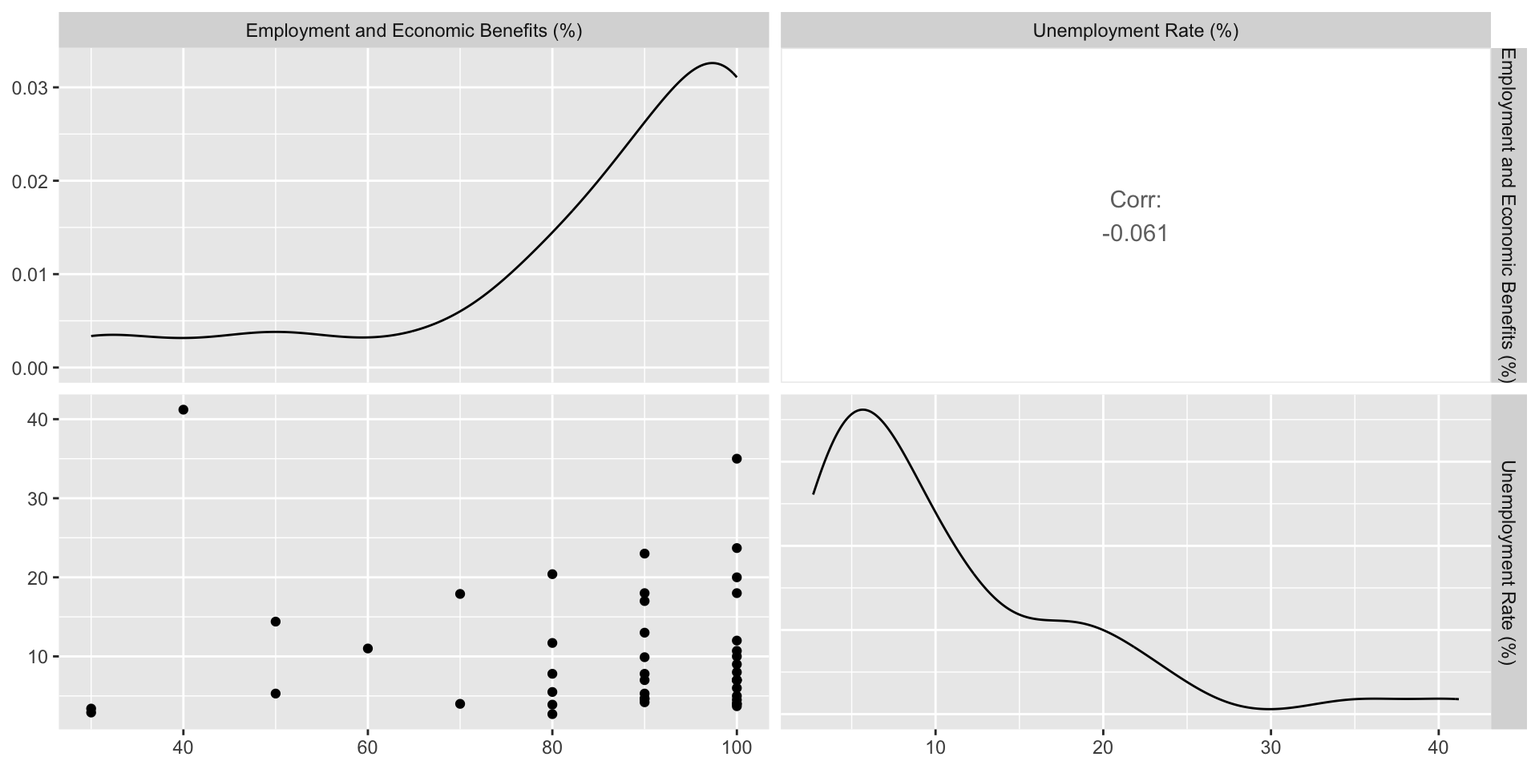
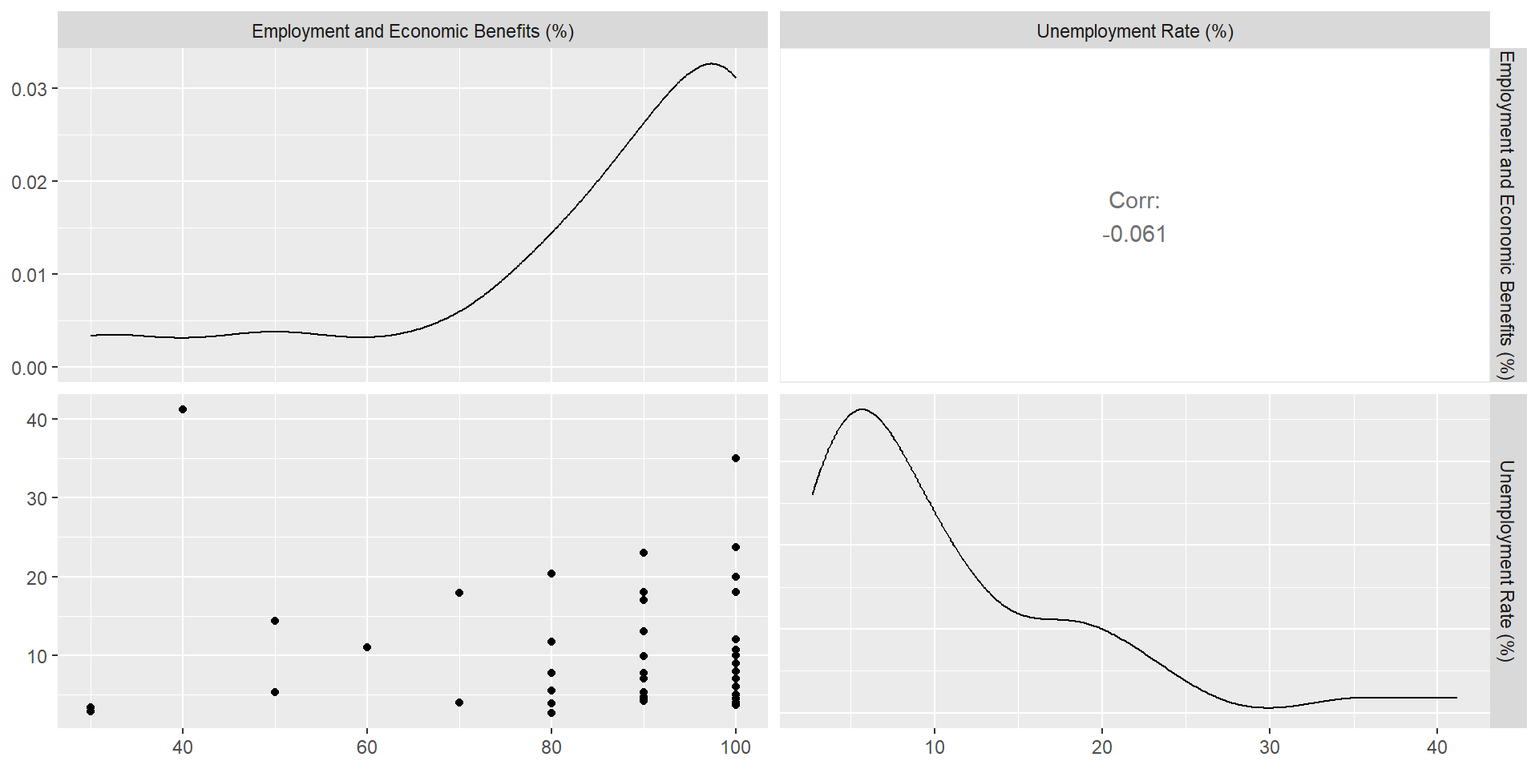
Added pairplot

diff --git a/csc3007-black2/csc3007-black2.html b/csc3007-black2/csc3007-black2.html
@@ -337,169 +337,6 @@ CHIA YI XUAN, TSUI SAU CHI, JEANIE OH JUN NING, VARADHARAJAN JAYAPRIYA, GU JINMI
 </div>
 
 </section>
-<section class="slide level2">
-
-<div class="cell">
-<div class="cell-output cell-output-stdout">
-<pre><code># A tibble: 99 × 39
-   ObjectId goal_code goal_labelEN goal_descEN         target_code target_descEN
-      &lt;dbl&gt;     &lt;dbl&gt; &lt;chr&gt;        &lt;chr&gt;                     &lt;dbl&gt; &lt;chr&gt;        
- 1        1         5 Goal 5       Achieve gender equ…         5.1 End all form…
- 2        2         5 Goal 5       Achieve gender equ…         5.1 End all form…
- 3        3         5 Goal 5       Achieve gender equ…         5.1 End all form…
- 4        4         5 Goal 5       Achieve gender equ…         5.1 End all form…
- 5        5         5 Goal 5       Achieve gender equ…         5.1 End all form…
- 6        6         5 Goal 5       Achieve gender equ…         5.1 End all form…
- 7        7         5 Goal 5       Achieve gender equ…         5.1 End all form…
- 8        8         5 Goal 5       Achieve gender equ…         5.1 End all form…
- 9        9         5 Goal 5       Achieve gender equ…         5.1 End all form…
-10       10         5 Goal 5       Achieve gender equ…         5.1 End all form…
-# ℹ 89 more rows
-# ℹ 33 more variables: indicator_code &lt;chr&gt;, indicator_reference &lt;chr&gt;,
-#   indicator_descEN &lt;chr&gt;, series_release &lt;chr&gt;, series_tags &lt;chr&gt;,
-#   series &lt;chr&gt;, seriesDescription &lt;chr&gt;, geoAreaCode &lt;dbl&gt;,
-#   geoAreaName &lt;chr&gt;, level_ &lt;dbl&gt;, parentCode &lt;dbl&gt;, parentName &lt;chr&gt;,
-#   type &lt;chr&gt;, X &lt;dbl&gt;, Y &lt;dbl&gt;, ISO3 &lt;chr&gt;, UN_Member &lt;dbl&gt;,
-#   Country_Profile &lt;dbl&gt;, UnitMultiplier &lt;lgl&gt;, Units_code &lt;chr&gt;, …</code></pre>
-</div>
-<div class="cell-output cell-output-stdout">
-<pre><code># A tibble: 190 × 59
-   ObjectId goal_code goal_labelEN goal_descEN         target_code target_descEN
-      &lt;dbl&gt;     &lt;dbl&gt; &lt;chr&gt;        &lt;chr&gt;                     &lt;dbl&gt; &lt;chr&gt;        
- 1        1         5 Goal 5       Achieve gender equ…         5.5 Ensure women…
- 2        2         5 Goal 5       Achieve gender equ…         5.5 Ensure women…
- 3        3         5 Goal 5       Achieve gender equ…         5.5 Ensure women…
- 4        4         5 Goal 5       Achieve gender equ…         5.5 Ensure women…
- 5        5         5 Goal 5       Achieve gender equ…         5.5 Ensure women…
- 6        6         5 Goal 5       Achieve gender equ…         5.5 Ensure women…
- 7        7         5 Goal 5       Achieve gender equ…         5.5 Ensure women…
- 8        8         5 Goal 5       Achieve gender equ…         5.5 Ensure women…
- 9        9         5 Goal 5       Achieve gender equ…         5.5 Ensure women…
-10       10         5 Goal 5       Achieve gender equ…         5.5 Ensure women…
-# ℹ 180 more rows
-# ℹ 53 more variables: indicator_code &lt;chr&gt;, indicator_reference &lt;chr&gt;,
-#   indicator_descEN &lt;chr&gt;, series_release &lt;chr&gt;, series_tags &lt;chr&gt;,
-#   series &lt;chr&gt;, seriesDescription &lt;chr&gt;, geoAreaCode &lt;dbl&gt;,
-#   geoAreaName &lt;chr&gt;, level_ &lt;dbl&gt;, parentCode &lt;dbl&gt;, parentName &lt;chr&gt;,
-#   type &lt;chr&gt;, X &lt;dbl&gt;, Y &lt;dbl&gt;, ISO3 &lt;chr&gt;, UN_Member &lt;dbl&gt;,
-#   Country_Profile &lt;dbl&gt;, sex_code &lt;lgl&gt;, sex_desc &lt;chr&gt;, …</code></pre>
-</div>
-<div class="cell-output cell-output-stdout">
-<pre><code># A tibble: 3,409 × 60
-   ObjectId goal_code goal_labelEN goal_descEN         target_code target_descEN
-      &lt;dbl&gt;     &lt;dbl&gt; &lt;chr&gt;        &lt;chr&gt;                     &lt;dbl&gt; &lt;chr&gt;        
- 1        1         8 Goal 8       Promote sustained,…         8.5 By 2030, ach…
- 2        2         8 Goal 8       Promote sustained,…         8.5 By 2030, ach…
- 3        3         8 Goal 8       Promote sustained,…         8.5 By 2030, ach…
- 4        4         8 Goal 8       Promote sustained,…         8.5 By 2030, ach…
- 5        5         8 Goal 8       Promote sustained,…         8.5 By 2030, ach…
- 6        6         8 Goal 8       Promote sustained,…         8.5 By 2030, ach…
- 7        7         8 Goal 8       Promote sustained,…         8.5 By 2030, ach…
- 8        8         8 Goal 8       Promote sustained,…         8.5 By 2030, ach…
- 9        9         8 Goal 8       Promote sustained,…         8.5 By 2030, ach…
-10       10         8 Goal 8       Promote sustained,…         8.5 By 2030, ach…
-# ℹ 3,399 more rows
-# ℹ 54 more variables: indicator_code &lt;chr&gt;, indicator_reference &lt;chr&gt;,
-#   indicator_descEN &lt;chr&gt;, series_release &lt;chr&gt;, series_tags &lt;chr&gt;,
-#   series &lt;chr&gt;, seriesDescription &lt;chr&gt;, geoAreaCode &lt;dbl&gt;,
-#   geoAreaName &lt;chr&gt;, level_ &lt;dbl&gt;, parentCode &lt;dbl&gt;, parentName &lt;chr&gt;,
-#   type &lt;chr&gt;, X &lt;dbl&gt;, Y &lt;dbl&gt;, ISO3 &lt;chr&gt;, UN_Member &lt;dbl&gt;,
-#   Country_Profile &lt;dbl&gt;, sex_code &lt;chr&gt;, sex_desc &lt;chr&gt;, …</code></pre>
-</div>
-<div class="cell-output cell-output-stdout">
-<pre><code># A tibble: 631 × 55
-   ObjectId goal_code goal_labelEN goal_descEN         target_code target_descEN
-      &lt;dbl&gt;     &lt;dbl&gt; &lt;chr&gt;        &lt;chr&gt;                     &lt;dbl&gt; &lt;chr&gt;        
- 1        1         8 Goal 8       Promote sustained,…         8.5 By 2030, ach…
- 2        2         8 Goal 8       Promote sustained,…         8.5 By 2030, ach…
- 3        3         8 Goal 8       Promote sustained,…         8.5 By 2030, ach…
- 4        4         8 Goal 8       Promote sustained,…         8.5 By 2030, ach…
- 5        5         8 Goal 8       Promote sustained,…         8.5 By 2030, ach…
- 6        6         8 Goal 8       Promote sustained,…         8.5 By 2030, ach…
- 7        7         8 Goal 8       Promote sustained,…         8.5 By 2030, ach…
- 8        8         8 Goal 8       Promote sustained,…         8.5 By 2030, ach…
- 9        9         8 Goal 8       Promote sustained,…         8.5 By 2030, ach…
-10       10         8 Goal 8       Promote sustained,…         8.5 By 2030, ach…
-# ℹ 621 more rows
-# ℹ 49 more variables: indicator_code &lt;chr&gt;, indicator_reference &lt;chr&gt;,
-#   indicator_descEN &lt;chr&gt;, series_release &lt;chr&gt;, series_tags &lt;chr&gt;,
-#   series &lt;chr&gt;, seriesDescription &lt;chr&gt;, geoAreaCode &lt;dbl&gt;,
-#   geoAreaName &lt;chr&gt;, level_ &lt;dbl&gt;, parentCode &lt;dbl&gt;, parentName &lt;chr&gt;,
-#   type &lt;chr&gt;, X &lt;dbl&gt;, Y &lt;dbl&gt;, ISO3 &lt;chr&gt;, UN_Member &lt;dbl&gt;,
-#   Country_Profile &lt;dbl&gt;, sex_code &lt;chr&gt;, sex_desc &lt;chr&gt;, …</code></pre>
-</div>
-<div class="cell-output cell-output-stdout">
-<pre><code># A tibble: 99 × 8
-   indicator_reference geoAreaName            parentName type      X     Y ISO3 
-   &lt;chr&gt;               &lt;chr&gt;                  &lt;chr&gt;      &lt;chr&gt; &lt;dbl&gt; &lt;dbl&gt; &lt;chr&gt;
- 1 5.1.1               Albania                Southern … Coun…  20.1  41.1 ALB  
- 2 5.1.1               Argentina              South Ame… Coun… -65.1 -35.2 ARG  
- 3 5.1.1               Armenia                Western A… Coun…  44.9  40.3 ARM  
- 4 5.1.1               Australia              Australia… Coun… 134.  -25.6 AUS  
- 5 5.1.1               Austria                Western E… Coun…  14.1  47.6 AUT  
- 6 5.1.1               Bangladesh             Southern … Coun…  89.2  22.9 BGD  
- 7 5.1.1               Bangladesh             Southern … Coun…  89.2  22.9 BGD  
- 8 5.1.1               Barbados               Caribbean  Coun… -59.5  13.1 BRB  
- 9 5.1.1               Belarus                Eastern E… Coun…  28.0  53.5 BLR  
-10 5.1.1               Bolivia (Plurinationa… South Ame… Coun… -64.7 -16.7 BOL  
-# ℹ 89 more rows
-# ℹ 1 more variable: latest_value &lt;dbl&gt;</code></pre>
-</div>
-<div class="cell-output cell-output-stdout">
-<pre><code># A tibble: 190 × 8
-   indicator_reference geoAreaName parentName            type      X     Y ISO3 
-   &lt;chr&gt;               &lt;chr&gt;       &lt;chr&gt;                 &lt;chr&gt; &lt;dbl&gt; &lt;dbl&gt; &lt;chr&gt;
- 1 5.5.2               Afghanistan Southern Asia (exclu… Coun… 66.0   33.8 AFG  
- 2 5.5.2               Afghanistan Southern Asia (exclu… Coun… 66.0   33.8 AFG  
- 3 5.5.2               Montenegro  Southern Europe       Coun… 19.3   42.8 MNE  
- 4 5.5.2               Albania     Southern Europe       Coun… 20.1   41.1 ALB  
- 5 5.5.2               Algeria     Northern Africa       Coun…  2.68  28.2 DZA  
- 6 5.5.2               Morocco     Northern Africa       Coun… -6.28  31.8 MAR  
- 7 5.5.2               Mozambique  Eastern Africa        Coun… 38.2  -14.3 MOZ  
- 8 5.5.2               Angola      Middle Africa         Coun… 17.6  -12.3 AGO  
- 9 5.5.2               Myanmar     South-Eastern Asia    Coun… 96.5   21.2 MMR  
-10 5.5.2               Namibia     Southern Africa       Coun… 17.2  -22.1 NAM  
-# ℹ 180 more rows
-# ℹ 1 more variable: latest_value &lt;dbl&gt;</code></pre>
-</div>
-<div class="cell-output cell-output-stdout">
-<pre><code># A tibble: 3,409 × 11
-   indicator_reference geoAreaName parentName   type      X     Y ISO3  sex_code
-   &lt;chr&gt;               &lt;chr&gt;       &lt;chr&gt;        &lt;chr&gt; &lt;dbl&gt; &lt;dbl&gt; &lt;chr&gt; &lt;chr&gt;   
- 1 8.5.1               Austria     Western Eur… Coun…  14.1  47.6 AUT   _T      
- 2 8.5.1               Austria     Western Eur… Coun…  14.1  47.6 AUT   _T      
- 3 8.5.1               Austria     Western Eur… Coun…  14.1  47.6 AUT   _T      
- 4 8.5.1               Cambodia    South-Easte… Coun… 105.   12.7 KHM   M       
- 5 8.5.1               Botswana    Southern Af… Coun…  23.8 -22.2 BWA   F       
- 6 8.5.1               Austria     Western Eur… Coun…  14.1  47.6 AUT   _T      
- 7 8.5.1               Austria     Western Eur… Coun…  14.1  47.6 AUT   _T      
- 8 8.5.1               Austria     Western Eur… Coun…  14.1  47.6 AUT   F       
- 9 8.5.1               Austria     Western Eur… Coun…  14.1  47.6 AUT   F       
-10 8.5.1               Austria     Western Eur… Coun…  14.1  47.6 AUT   F       
-# ℹ 3,399 more rows
-# ℹ 3 more variables: sex_desc &lt;chr&gt;, type_of_occupation_desc &lt;chr&gt;,
-#   latest_value &lt;dbl&gt;</code></pre>
-</div>
-<div class="cell-output cell-output-stdout">
-<pre><code># A tibble: 631 × 12
-   indicator_reference geoAreaName parentName   type      X     Y ISO3  sex_code
-   &lt;chr&gt;               &lt;chr&gt;       &lt;chr&gt;        &lt;chr&gt; &lt;dbl&gt; &lt;dbl&gt; &lt;chr&gt; &lt;chr&gt;   
- 1 8.5.2               Sri Lanka   Southern As… Coun…  80.7  7.61 LKA   M       
- 2 8.5.2               Lithuania   Northern Eu… Coun…  23.9 55.3  LTU   _T      
- 3 8.5.2               Romania     Eastern Eur… Coun…  25.0 45.8  ROU   _T      
- 4 8.5.2               Sri Lanka   Southern As… Coun…  80.7  7.61 LKA   M       
- 5 8.5.2               Romania     Eastern Eur… Coun…  25.0 45.8  ROU   F       
- 6 8.5.2               Lithuania   Northern Eu… Coun…  23.9 55.3  LTU   F       
- 7 8.5.2               Sri Lanka   Southern As… Coun…  80.7  7.61 LKA   M       
- 8 8.5.2               Romania     Eastern Eur… Coun…  25.0 45.8  ROU   F       
- 9 8.5.2               Romania     Eastern Eur… Coun…  25.0 45.8  ROU   F       
-10 8.5.2               Romania     Eastern Eur… Coun…  25.0 45.8  ROU   M       
-# ℹ 621 more rows
-# ℹ 4 more variables: sex_desc &lt;chr&gt;, disability_status_code &lt;chr&gt;,
-#   disability_status_desc &lt;chr&gt;, latest_value &lt;dbl&gt;</code></pre>
-</div>
-</div>
-</section>
 <section>
 <section id="relationship-between-nations-legal-framework-achievements-in-gender-equality-and-womans-success-in-the-economy." class="title-slide slide level1 center">
 <h1>Relationship between nation’s legal framework achievements in gender equality and woman’s success in the economy.</h1>
@@ -564,7 +401,8 @@ CHIA YI XUAN, TSUI SAU CHI, JEANIE OH JUN NING, VARADHARAJAN JAYAPRIYA, GU JINMI
 </section>
 <section id="vs-5.5.2-relation" class="slide level2">
 <h2><strong>5.1.1 vs 5.5.2 Relation</strong></h2>
-</section>
+
+<img data-src="csc3007-black2_files/figure-revealjs/unnamed-chunk-5-1.png" width="960" class="r-stretch"></section>
 <section id="vs-5.5.2-relation-data-re-expression-if-needed" class="slide level2">
 <h2><strong>5.1.1 vs 5.5.2 Relation data re-expression if needed</strong></h2>
 </section>
@@ -636,85 +474,112 @@ CHIA YI XUAN, TSUI SAU CHI, JEANIE OH JUN NING, VARADHARAJAN JAYAPRIYA, GU JINMI
 <p># Last item, require above to be done</p>
 <div class="cell">
 <div class="cell-output cell-output-stdout">
-<pre><code>D:\Projects\csc3007-black2\csc3007-black2\csc3007-black2.qmd:30:81: style: [line_length_linter] Lines should not be more than 80 characters.
+<pre><code>D:\Projects\csc3007-black2\csc3007-black2\csc3007-black2.qmd:33:81: style: [line_length_linter] Lines should not be more than 80 characters.
 # Load 5.1.1 data - Legal frameworks that promote enforce and monitor gender equality (percentage of achievement 0 - 100) \-- Area 3: employment and economic benefits
 ~~~~~~~~~~~~~~~~~~~~~~~~~~~~~~~~~~~~~~~~~~~~~~~~~~~~~~~~~~~~~~~~~~~~~~~~~~~~~~~~^~~~~~~~~~~~~~~~~~~~~~~~~~~~~~~~~~~~~~~~~~~~~~~~~~~~~~~~~~~~~~~~~~~~~~~~~~~~~~~~~~~~~~
-D:\Projects\csc3007-black2\csc3007-black2\csc3007-black2.qmd:31:1: style: [object_length_linter] Variable and function names should not be longer than 30 characters.
+D:\Projects\csc3007-black2\csc3007-black2\csc3007-black2.qmd:34:1: style: [object_length_linter] Variable and function names should not be longer than 30 characters.
 indicator_5_1_1_employment_economic_benefits &lt;- read_csv("data/Indicator_5.1.1%3A_Legal_frameworks_that_promote__enforce_and_monitor_gender_equality_(percentage_of_achievement__0_-_100)_--_Area_3%3A_employment_and_economic_benefits.csv", show_col_types = FALSE)
 ^~~~~~~~~~~~~~~~~~~~~~~~~~~~~~~~~~~~~~~~~~~~
-D:\Projects\csc3007-black2\csc3007-black2\csc3007-black2.qmd:31:81: style: [line_length_linter] Lines should not be more than 80 characters.
+D:\Projects\csc3007-black2\csc3007-black2\csc3007-black2.qmd:34:81: style: [line_length_linter] Lines should not be more than 80 characters.
 indicator_5_1_1_employment_economic_benefits &lt;- read_csv("data/Indicator_5.1.1%3A_Legal_frameworks_that_promote__enforce_and_monitor_gender_equality_(percentage_of_achievement__0_-_100)_--_Area_3%3A_employment_and_economic_benefits.csv", show_col_types = FALSE)
 ~~~~~~~~~~~~~~~~~~~~~~~~~~~~~~~~~~~~~~~~~~~~~~~~~~~~~~~~~~~~~~~~~~~~~~~~~~~~~~~~^~~~~~~~~~~~~~~~~~~~~~~~~~~~~~~~~~~~~~~~~~~~~~~~~~~~~~~~~~~~~~~~~~~~~~~~~~~~~~~~~~~~~~~~~~~~~~~~~~~~~~~~~~~~~~~~~~~~~~~~~~~~~~~~~~~~~~~~~~~~~~~~~~~~~~~~~~~~~~~~~~~~~~~~~~~~~~~~~~~~~
-D:\Projects\csc3007-black2\csc3007-black2\csc3007-black2.qmd:34:81: style: [line_length_linter] Lines should not be more than 80 characters.
+D:\Projects\csc3007-black2\csc3007-black2\csc3007-black2.qmd:37:81: style: [line_length_linter] Lines should not be more than 80 characters.
 indicator_5_5_2_managerial &lt;- read_csv("data/Indicator_5.5.2%3A_Proportion_of_women_in_managerial_positions_(percent).csv", show_col_types = FALSE)
 ~~~~~~~~~~~~~~~~~~~~~~~~~~~~~~~~~~~~~~~~~~~~~~~~~~~~~~~~~~~~~~~~~~~~~~~~~~~~~~~~^~~~~~~~~~~~~~~~~~~~~~~~~~~~~~~~~~~~~~~~~~~~~~~~~~~~~~~~~~~~~~~~~~~
-D:\Projects\csc3007-black2\csc3007-black2\csc3007-black2.qmd:36:81: style: [line_length_linter] Lines should not be more than 80 characters.
+D:\Projects\csc3007-black2\csc3007-black2\csc3007-black2.qmd:39:81: style: [line_length_linter] Lines should not be more than 80 characters.
 # Load 8.5.1 data - Average hourly earnings of employees by sex, age, occupation and persons with disabilities
 ~~~~~~~~~~~~~~~~~~~~~~~~~~~~~~~~~~~~~~~~~~~~~~~~~~~~~~~~~~~~~~~~~~~~~~~~~~~~~~~~^~~~~~~~~~~~~~~~~~~~~~~~~~~~~~
-D:\Projects\csc3007-black2\csc3007-black2\csc3007-black2.qmd:37:81: style: [line_length_linter] Lines should not be more than 80 characters.
+D:\Projects\csc3007-black2\csc3007-black2\csc3007-black2.qmd:40:81: style: [line_length_linter] Lines should not be more than 80 characters.
 indicator_8_5_1_average_hourly &lt;- read_csv("data/Indicator_8.5.1%3A_Average_hourly_earnings_of_employees_by_sex_and_occupation_(local_currency).csv", show_col_types = FALSE)
 ~~~~~~~~~~~~~~~~~~~~~~~~~~~~~~~~~~~~~~~~~~~~~~~~~~~~~~~~~~~~~~~~~~~~~~~~~~~~~~~~^~~~~~~~~~~~~~~~~~~~~~~~~~~~~~~~~~~~~~~~~~~~~~~~~~~~~~~~~~~~~~~~~~~~~~~~~~~~~~~~~~~~~~~~~~~~~
-D:\Projects\csc3007-black2\csc3007-black2\csc3007-black2.qmd:40:81: style: [line_length_linter] Lines should not be more than 80 characters.
+D:\Projects\csc3007-black2\csc3007-black2\csc3007-black2.qmd:43:81: style: [line_length_linter] Lines should not be more than 80 characters.
 indicator_8_5_2_unemployment &lt;- read_csv("data/Indicator_8.5.2%3A_Unemployment_rate__by_sex_and_disability_(percent).csv", show_col_types = FALSE)
 ~~~~~~~~~~~~~~~~~~~~~~~~~~~~~~~~~~~~~~~~~~~~~~~~~~~~~~~~~~~~~~~~~~~~~~~~~~~~~~~~^~~~~~~~~~~~~~~~~~~~~~~~~~~~~~~~~~~~~~~~~~~~~~~~~~~~~~~~~~~~~~~~~~
-D:\Projects\csc3007-black2\csc3007-black2\csc3007-black2.qmd:46:1: style: [object_length_linter] Variable and function names should not be longer than 30 characters.
+D:\Projects\csc3007-black2\csc3007-black2\csc3007-black2.qmd:49:1: style: [object_length_linter] Variable and function names should not be longer than 30 characters.
 indicator_5_1_1_employment_economic_benefits &lt;- indicator_5_1_1_employment_economic_benefits |&gt; select(indicator_reference, geoAreaName, parentName, type, X, Y, ISO3, latest_value)
 ^~~~~~~~~~~~~~~~~~~~~~~~~~~~~~~~~~~~~~~~~~~~
-D:\Projects\csc3007-black2\csc3007-black2\csc3007-black2.qmd:46:81: style: [line_length_linter] Lines should not be more than 80 characters.
+D:\Projects\csc3007-black2\csc3007-black2\csc3007-black2.qmd:49:81: style: [line_length_linter] Lines should not be more than 80 characters.
 indicator_5_1_1_employment_economic_benefits &lt;- indicator_5_1_1_employment_economic_benefits |&gt; select(indicator_reference, geoAreaName, parentName, type, X, Y, ISO3, latest_value)
 ~~~~~~~~~~~~~~~~~~~~~~~~~~~~~~~~~~~~~~~~~~~~~~~~~~~~~~~~~~~~~~~~~~~~~~~~~~~~~~~~^~~~~~~~~~~~~~~~~~~~~~~~~~~~~~~~~~~~~~~~~~~~~~~~~~~~~~~~~~~~~~~~~~~~~~~~~~~~~~~~~~~~~~~~~~~~~~~~~~~~
-D:\Projects\csc3007-black2\csc3007-black2\csc3007-black2.qmd:48:81: style: [line_length_linter] Lines should not be more than 80 characters.
+D:\Projects\csc3007-black2\csc3007-black2\csc3007-black2.qmd:51:81: style: [line_length_linter] Lines should not be more than 80 characters.
 indicator_5_5_2_managerial &lt;- indicator_5_5_2_managerial |&gt; select(indicator_reference, geoAreaName, parentName, type, X, Y, ISO3, latest_value)
 ~~~~~~~~~~~~~~~~~~~~~~~~~~~~~~~~~~~~~~~~~~~~~~~~~~~~~~~~~~~~~~~~~~~~~~~~~~~~~~~~^~~~~~~~~~~~~~~~~~~~~~~~~~~~~~~~~~~~~~~~~~~~~~~~~~~~~~~~~~~~~~~~
-D:\Projects\csc3007-black2\csc3007-black2\csc3007-black2.qmd:50:81: style: [line_length_linter] Lines should not be more than 80 characters.
+D:\Projects\csc3007-black2\csc3007-black2\csc3007-black2.qmd:53:81: style: [line_length_linter] Lines should not be more than 80 characters.
 indicator_8_5_1_average_hourly &lt;- indicator_8_5_1_average_hourly |&gt; select(indicator_reference, geoAreaName, parentName, type, X, Y, ISO3, sex_code, sex_desc, type_of_occupation_desc, latest_value)
 ~~~~~~~~~~~~~~~~~~~~~~~~~~~~~~~~~~~~~~~~~~~~~~~~~~~~~~~~~~~~~~~~~~~~~~~~~~~~~~~~^~~~~~~~~~~~~~~~~~~~~~~~~~~~~~~~~~~~~~~~~~~~~~~~~~~~~~~~~~~~~~~~~~~~~~~~~~~~~~~~~~~~~~~~~~~~~~~~~~~~~~~~~~~~~~~~~~~~~
-D:\Projects\csc3007-black2\csc3007-black2\csc3007-black2.qmd:52:81: style: [line_length_linter] Lines should not be more than 80 characters.
+D:\Projects\csc3007-black2\csc3007-black2\csc3007-black2.qmd:55:81: style: [line_length_linter] Lines should not be more than 80 characters.
 indicator_8_5_2_unemployment &lt;- indicator_8_5_2_unemployment |&gt; select(indicator_reference, geoAreaName, parentName, type, X, Y, ISO3, sex_code, sex_desc, disability_status_code, disability_status_desc, latest_value)
 ~~~~~~~~~~~~~~~~~~~~~~~~~~~~~~~~~~~~~~~~~~~~~~~~~~~~~~~~~~~~~~~~~~~~~~~~~~~~~~~~^~~~~~~~~~~~~~~~~~~~~~~~~~~~~~~~~~~~~~~~~~~~~~~~~~~~~~~~~~~~~~~~~~~~~~~~~~~~~~~~~~~~~~~~~~~~~~~~~~~~~~~~~~~~~~~~~~~~~~~~~~~~~~~~~~~~~~~~
-D:\Projects\csc3007-black2\csc3007-black2\csc3007-black2.qmd:54:1: style: [object_name_linter] Variable and function name style should be snake_case or symbols.
+D:\Projects\csc3007-black2\csc3007-black2\csc3007-black2.qmd:57:1: style: [object_name_linter] Variable and function name style should be snake_case or symbols.
 World &lt;- select(World, ISO3="iso_a3", geometry="geometry")
 ^~~~~
-D:\Projects\csc3007-black2\csc3007-black2\csc3007-black2.qmd:54:28: style: [infix_spaces_linter] Put spaces around all infix operators.
+D:\Projects\csc3007-black2\csc3007-black2\csc3007-black2.qmd:57:28: style: [infix_spaces_linter] Put spaces around all infix operators.
 World &lt;- select(World, ISO3="iso_a3", geometry="geometry")
                            ^
-D:\Projects\csc3007-black2\csc3007-black2\csc3007-black2.qmd:54:47: style: [infix_spaces_linter] Put spaces around all infix operators.
+D:\Projects\csc3007-black2\csc3007-black2\csc3007-black2.qmd:57:47: style: [infix_spaces_linter] Put spaces around all infix operators.
 World &lt;- select(World, ISO3="iso_a3", geometry="geometry")
                                               ^
-D:\Projects\csc3007-black2\csc3007-black2\csc3007-black2.qmd:223:81: style: [line_length_linter] Lines should not be more than 80 characters.
-# Correlation Graph. See Sample-Project slide 11,12,15 *Please Judge if is approriate. Goal is to see if there is any significant statitical correlation 
-~~~~~~~~~~~~~~~~~~~~~~~~~~~~~~~~~~~~~~~~~~~~~~~~~~~~~~~~~~~~~~~~~~~~~~~~~~~~~~~~^~~~~~~~~~~~~~~~~~~~~~~~~~~~~~~~~~~~~~~~~~~~~~~~~~~~~~~~~~~~~~~~~~~~~~~~~
-D:\Projects\csc3007-black2\csc3007-black2\csc3007-black2.qmd:223:153: style: [trailing_whitespace_linter] Trailing whitespace is superfluous.
-# Correlation Graph. See Sample-Project slide 11,12,15 *Please Judge if is approriate. Goal is to see if there is any significant statitical correlation 
-                                                                                                                                                        ^
-D:\Projects\csc3007-black2\csc3007-black2\csc3007-black2.qmd:230:81: style: [line_length_linter] Lines should not be more than 80 characters.
-# Correlation Graph. See Sample-Project slide 11,12,15 *Please Judge if is approriate. Goal is to see if there is any significant statitical correlation 
-~~~~~~~~~~~~~~~~~~~~~~~~~~~~~~~~~~~~~~~~~~~~~~~~~~~~~~~~~~~~~~~~~~~~~~~~~~~~~~~~^~~~~~~~~~~~~~~~~~~~~~~~~~~~~~~~~~~~~~~~~~~~~~~~~~~~~~~~~~~~~~~~~~~~~~~~~
-D:\Projects\csc3007-black2\csc3007-black2\csc3007-black2.qmd:230:153: style: [trailing_whitespace_linter] Trailing whitespace is superfluous.
-# Correlation Graph. See Sample-Project slide 11,12,15 *Please Judge if is approriate. Goal is to see if there is any significant statitical correlation 
-                                                                                                                                                        ^
+D:\Projects\csc3007-black2\csc3007-black2\csc3007-black2.qmd:226:81: style: [line_length_linter] Lines should not be more than 80 characters.
+# Correlation Graph. See Sample-Project slide 11,12,15 *Please Judge if is approriate. Goal is to see if there is any significant statitical correlation
+~~~~~~~~~~~~~~~~~~~~~~~~~~~~~~~~~~~~~~~~~~~~~~~~~~~~~~~~~~~~~~~~~~~~~~~~~~~~~~~~^~~~~~~~~~~~~~~~~~~~~~~~~~~~~~~~~~~~~~~~~~~~~~~~~~~~~~~~~~~~~~~~~~~~~~~~
+D:\Projects\csc3007-black2\csc3007-black2\csc3007-black2.qmd:245:37: style: [single_quotes_linter] Only use double-quotes.
+  left_join(formatted_5_5_2, by = c('ISO3', 'geoAreaName'), relationship = "many-to-many") |&gt;
+                                    ^~~~~~
+D:\Projects\csc3007-black2\csc3007-black2\csc3007-black2.qmd:245:45: style: [single_quotes_linter] Only use double-quotes.
+  left_join(formatted_5_5_2, by = c('ISO3', 'geoAreaName'), relationship = "many-to-many") |&gt;
+                                            ^~~~~~~~~~~~~
+D:\Projects\csc3007-black2\csc3007-black2\csc3007-black2.qmd:245:81: style: [line_length_linter] Lines should not be more than 80 characters.
+  left_join(formatted_5_5_2, by = c('ISO3', 'geoAreaName'), relationship = "many-to-many") |&gt;
+~~~~~~~~~~~~~~~~~~~~~~~~~~~~~~~~~~~~~~~~~~~~~~~~~~~~~~~~~~~~~~~~~~~~~~~~~~~~~~~~^~~~~~~~~~~~~
 D:\Projects\csc3007-black2\csc3007-black2\csc3007-black2.qmd:255:81: style: [line_length_linter] Lines should not be more than 80 characters.
 # Correlation Graph. See Sample-Project slide 11,12,15 *Please Judge if is approriate. Goal is to see if there is any significant statitical correlation 
 ~~~~~~~~~~~~~~~~~~~~~~~~~~~~~~~~~~~~~~~~~~~~~~~~~~~~~~~~~~~~~~~~~~~~~~~~~~~~~~~~^~~~~~~~~~~~~~~~~~~~~~~~~~~~~~~~~~~~~~~~~~~~~~~~~~~~~~~~~~~~~~~~~~~~~~~~~
 D:\Projects\csc3007-black2\csc3007-black2\csc3007-black2.qmd:255:153: style: [trailing_whitespace_linter] Trailing whitespace is superfluous.
 # Correlation Graph. See Sample-Project slide 11,12,15 *Please Judge if is approriate. Goal is to see if there is any significant statitical correlation 
                                                                                                                                                         ^
-D:\Projects\csc3007-black2\csc3007-black2\csc3007-black2.qmd:262:81: style: [line_length_linter] Lines should not be more than 80 characters.
+D:\Projects\csc3007-black2\csc3007-black2\csc3007-black2.qmd:280:81: style: [line_length_linter] Lines should not be more than 80 characters.
 # Correlation Graph. See Sample-Project slide 11,12,15 *Please Judge if is approriate. Goal is to see if there is any significant statitical correlation 
 ~~~~~~~~~~~~~~~~~~~~~~~~~~~~~~~~~~~~~~~~~~~~~~~~~~~~~~~~~~~~~~~~~~~~~~~~~~~~~~~~^~~~~~~~~~~~~~~~~~~~~~~~~~~~~~~~~~~~~~~~~~~~~~~~~~~~~~~~~~~~~~~~~~~~~~~~~
-D:\Projects\csc3007-black2\csc3007-black2\csc3007-black2.qmd:262:153: style: [trailing_whitespace_linter] Trailing whitespace is superfluous.
+D:\Projects\csc3007-black2\csc3007-black2\csc3007-black2.qmd:280:153: style: [trailing_whitespace_linter] Trailing whitespace is superfluous.
 # Correlation Graph. See Sample-Project slide 11,12,15 *Please Judge if is approriate. Goal is to see if there is any significant statitical correlation 
                                                                                                                                                         ^
-D:\Projects\csc3007-black2\csc3007-black2\csc3007-black2.qmd:282:81: style: [line_length_linter] Lines should not be more than 80 characters.
+D:\Projects\csc3007-black2\csc3007-black2\csc3007-black2.qmd:287:81: style: [line_length_linter] Lines should not be more than 80 characters.
 # Correlation Graph. See Sample-Project slide 11,12,15 *Please Judge if is approriate. Goal is to see if there is any significant statitical correlation 
 ~~~~~~~~~~~~~~~~~~~~~~~~~~~~~~~~~~~~~~~~~~~~~~~~~~~~~~~~~~~~~~~~~~~~~~~~~~~~~~~~^~~~~~~~~~~~~~~~~~~~~~~~~~~~~~~~~~~~~~~~~~~~~~~~~~~~~~~~~~~~~~~~~~~~~~~~~
-D:\Projects\csc3007-black2\csc3007-black2\csc3007-black2.qmd:282:153: style: [trailing_whitespace_linter] Trailing whitespace is superfluous.
+D:\Projects\csc3007-black2\csc3007-black2\csc3007-black2.qmd:287:153: style: [trailing_whitespace_linter] Trailing whitespace is superfluous.
 # Correlation Graph. See Sample-Project slide 11,12,15 *Please Judge if is approriate. Goal is to see if there is any significant statitical correlation 
                                                                                                                                                         ^
-D:\Projects\csc3007-black2\csc3007-black2\csc3007-black2.qmd:294:81: style: [line_length_linter] Lines should not be more than 80 characters.
+D:\Projects\csc3007-black2\csc3007-black2\csc3007-black2.qmd:307:81: style: [line_length_linter] Lines should not be more than 80 characters.
 # Correlation Graph. See Sample-Project slide 11,12,15 *Please Judge if is approriate. Goal is to see if there is any significant statitical correlation 
 ~~~~~~~~~~~~~~~~~~~~~~~~~~~~~~~~~~~~~~~~~~~~~~~~~~~~~~~~~~~~~~~~~~~~~~~~~~~~~~~~^~~~~~~~~~~~~~~~~~~~~~~~~~~~~~~~~~~~~~~~~~~~~~~~~~~~~~~~~~~~~~~~~~~~~~~~~
-D:\Projects\csc3007-black2\csc3007-black2\csc3007-black2.qmd:294:153: style: [trailing_whitespace_linter] Trailing whitespace is superfluous.
+D:\Projects\csc3007-black2\csc3007-black2\csc3007-black2.qmd:307:153: style: [trailing_whitespace_linter] Trailing whitespace is superfluous.
+# Correlation Graph. See Sample-Project slide 11,12,15 *Please Judge if is approriate. Goal is to see if there is any significant statitical correlation 
+                                                                                                                                                        ^
+D:\Projects\csc3007-black2\csc3007-black2\csc3007-black2.qmd:310:67: style: [trailing_whitespace_linter] Trailing whitespace is superfluous.
+formatted_5_1_1 &lt;- indicator_5_1_1_employment_economic_benefits |&gt; 
+                                                                  ^
+D:\Projects\csc3007-black2\csc3007-black2\csc3007-black2.qmd:312:81: style: [line_length_linter] Lines should not be more than 80 characters.
+  select(geoAreaName, ISO3, "Employment and Economic Benefits (%)" = latest_value) |&gt;
+~~~~~~~~~~~~~~~~~~~~~~~~~~~~~~~~~~~~~~~~~~~~~~~~~~~~~~~~~~~~~~~~~~~~~~~~~~~~~~~~^~~~~
+D:\Projects\csc3007-black2\csc3007-black2\csc3007-black2.qmd:318:81: style: [line_length_linter] Lines should not be more than 80 characters.
+  select(geoAreaName, ISO3, disability_status_desc, sex_desc, "Unemployment Rate (%)" = latest_value) |&gt;
+~~~~~~~~~~~~~~~~~~~~~~~~~~~~~~~~~~~~~~~~~~~~~~~~~~~~~~~~~~~~~~~~~~~~~~~~~~~~~~~~^~~~~~~~~~~~~~~~~~~~~~~~
+D:\Projects\csc3007-black2\csc3007-black2\csc3007-black2.qmd:319:81: style: [line_length_linter] Lines should not be more than 80 characters.
+  filter(sex_desc == "Female", disability_status_desc == "No breakdown by disability") |&gt;
+~~~~~~~~~~~~~~~~~~~~~~~~~~~~~~~~~~~~~~~~~~~~~~~~~~~~~~~~~~~~~~~~~~~~~~~~~~~~~~~~^~~~~~~~~
+D:\Projects\csc3007-black2\csc3007-black2\csc3007-black2.qmd:325:37: style: [single_quotes_linter] Only use double-quotes.
+  left_join(formatted_5_1_1, by = c('ISO3', 'geoAreaName')) |&gt;
+                                    ^~~~~~
+D:\Projects\csc3007-black2\csc3007-black2\csc3007-black2.qmd:325:45: style: [single_quotes_linter] Only use double-quotes.
+  left_join(formatted_5_1_1, by = c('ISO3', 'geoAreaName')) |&gt;
+                                            ^~~~~~~~~~~~~
+D:\Projects\csc3007-black2\csc3007-black2\csc3007-black2.qmd:328:81: style: [line_length_linter] Lines should not be more than 80 characters.
+ggpairs(merged_data |&gt; select("Employment and Economic Benefits (%)", "Unemployment Rate (%)"), cardinality_threshold = NULL)
+~~~~~~~~~~~~~~~~~~~~~~~~~~~~~~~~~~~~~~~~~~~~~~~~~~~~~~~~~~~~~~~~~~~~~~~~~~~~~~~~^~~~~~~~~~~~~~~~~~~~~~~~~~~~~~~~~~~~~~~~~~~~~
+D:\Projects\csc3007-black2\csc3007-black2\csc3007-black2.qmd:340:81: style: [line_length_linter] Lines should not be more than 80 characters.
+# Correlation Graph. See Sample-Project slide 11,12,15 *Please Judge if is approriate. Goal is to see if there is any significant statitical correlation 
+~~~~~~~~~~~~~~~~~~~~~~~~~~~~~~~~~~~~~~~~~~~~~~~~~~~~~~~~~~~~~~~~~~~~~~~~~~~~~~~~^~~~~~~~~~~~~~~~~~~~~~~~~~~~~~~~~~~~~~~~~~~~~~~~~~~~~~~~~~~~~~~~~~~~~~~~~
+D:\Projects\csc3007-black2\csc3007-black2\csc3007-black2.qmd:340:153: style: [trailing_whitespace_linter] Trailing whitespace is superfluous.
 # Correlation Graph. See Sample-Project slide 11,12,15 *Please Judge if is approriate. Goal is to see if there is any significant statitical correlation 
                                                                                                                                                         ^</code></pre>
 </div>
